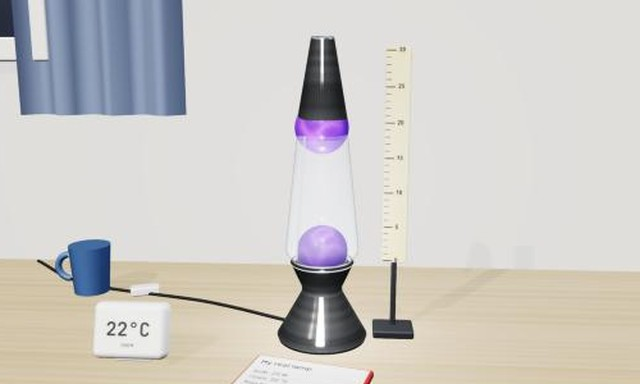
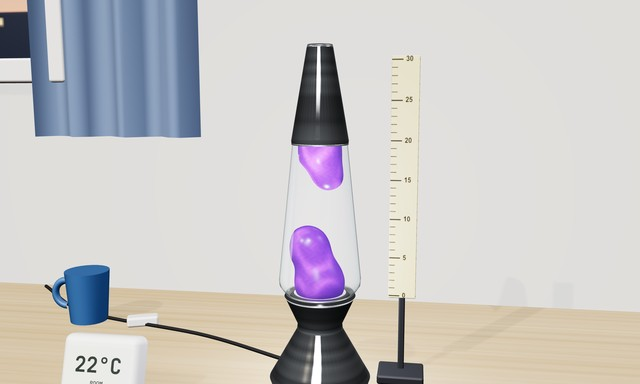
Lava Lamp twin: second lamp-top rendering fix; sharper card picture

diff --git a/CaseStudies/cbe-digital-twins/lamp/scene.js b/CaseStudies/cbe-digital-twins/lamp/scene.js
@@ -189,6 +189,11 @@ export function makeScene(stage, NBLOB = 6, blobStage = null) {
         // a strand of wax back to where the blob came from, thinning until it pinches off
         const up = q.v >= 0, prog = up ? q.u : 1 - q.u; if (prog > 0.02 && prog < 0.55 && Math.abs(q.v) > 0.002) { const y0 = up ? 0.02 : yTop - 0.01, thin = 1 - prog / 0.55; for (let k = 1; k <= 4; k++) { const f = k / 5, yy = y + (y0 - y) * f, cc = toU(x * (1 - f), yy, z * (1 - f)); gball(cc, Math.min(r * (0.55 - 0.07 * k) * (0.35 + 0.65 * thin), gr(Math.max(0, yy / GH)) - 0.004), bc); } } });
       if (fluid) { bc = th ? tcol((s.Tb + s.Tt) / 2, cA) : WHITE; for (const d of fluid) gball(toU(d[0], d[1], d[2]), d[3], bc); }
+      // keep the wax inside the glass: where blobs gather, their fields add and the surface would swell through the wall and the cap.
+      // The field is faded to zero over two cells just inside the inner wall, and above the cap rim.
+      { const N = mc.size, f = mc.field, w = 2 / N, k = 2 * SC;
+        for (let y = 1; y < N - 1; y++) { const u = ((y / N - 0.5) * k + GH / 2) / GH, top = u > UC ? 0 : 1, rm = Math.max(0, gr(Math.min(1, Math.max(0, u))) - 0.0012) / k, r0 = Math.max(0, rm - w), r02 = r0 * r0;
+          for (let z = 1; z < N - 1; z++) { const dz = z / N - 0.5, zo = z * N * N + y * N; for (let x = 1; x < N - 1; x++) { const id = zo + x; if (f[id] <= 0) continue; if (!top) { f[id] = 0; continue; } const dx = x / N - 0.5, d2 = dx * dx + dz * dz; if (d2 <= r02) continue; const r = Math.sqrt(d2); f[id] *= r >= rm ? 0 : (rm - r) / w; } } } }
       mc.update(); }
     else { const pr = 0.024 + 0.014 * smP.pool; pool.scale.set(pr, 0.012 + 0.018 * smP.pool, pr); pool.position.y = BH + 0.008 + pool.scale.y * 0.6;
       const tr = 0.01 + 0.011 * smP.top; topPool.visible = smP.top > 0.02; topPool.scale.set(tr, 0.006 + 0.022 * smP.top, tr); topPool.position.y = BH + GH * 0.945 - topPool.scale.y * 0.7;
